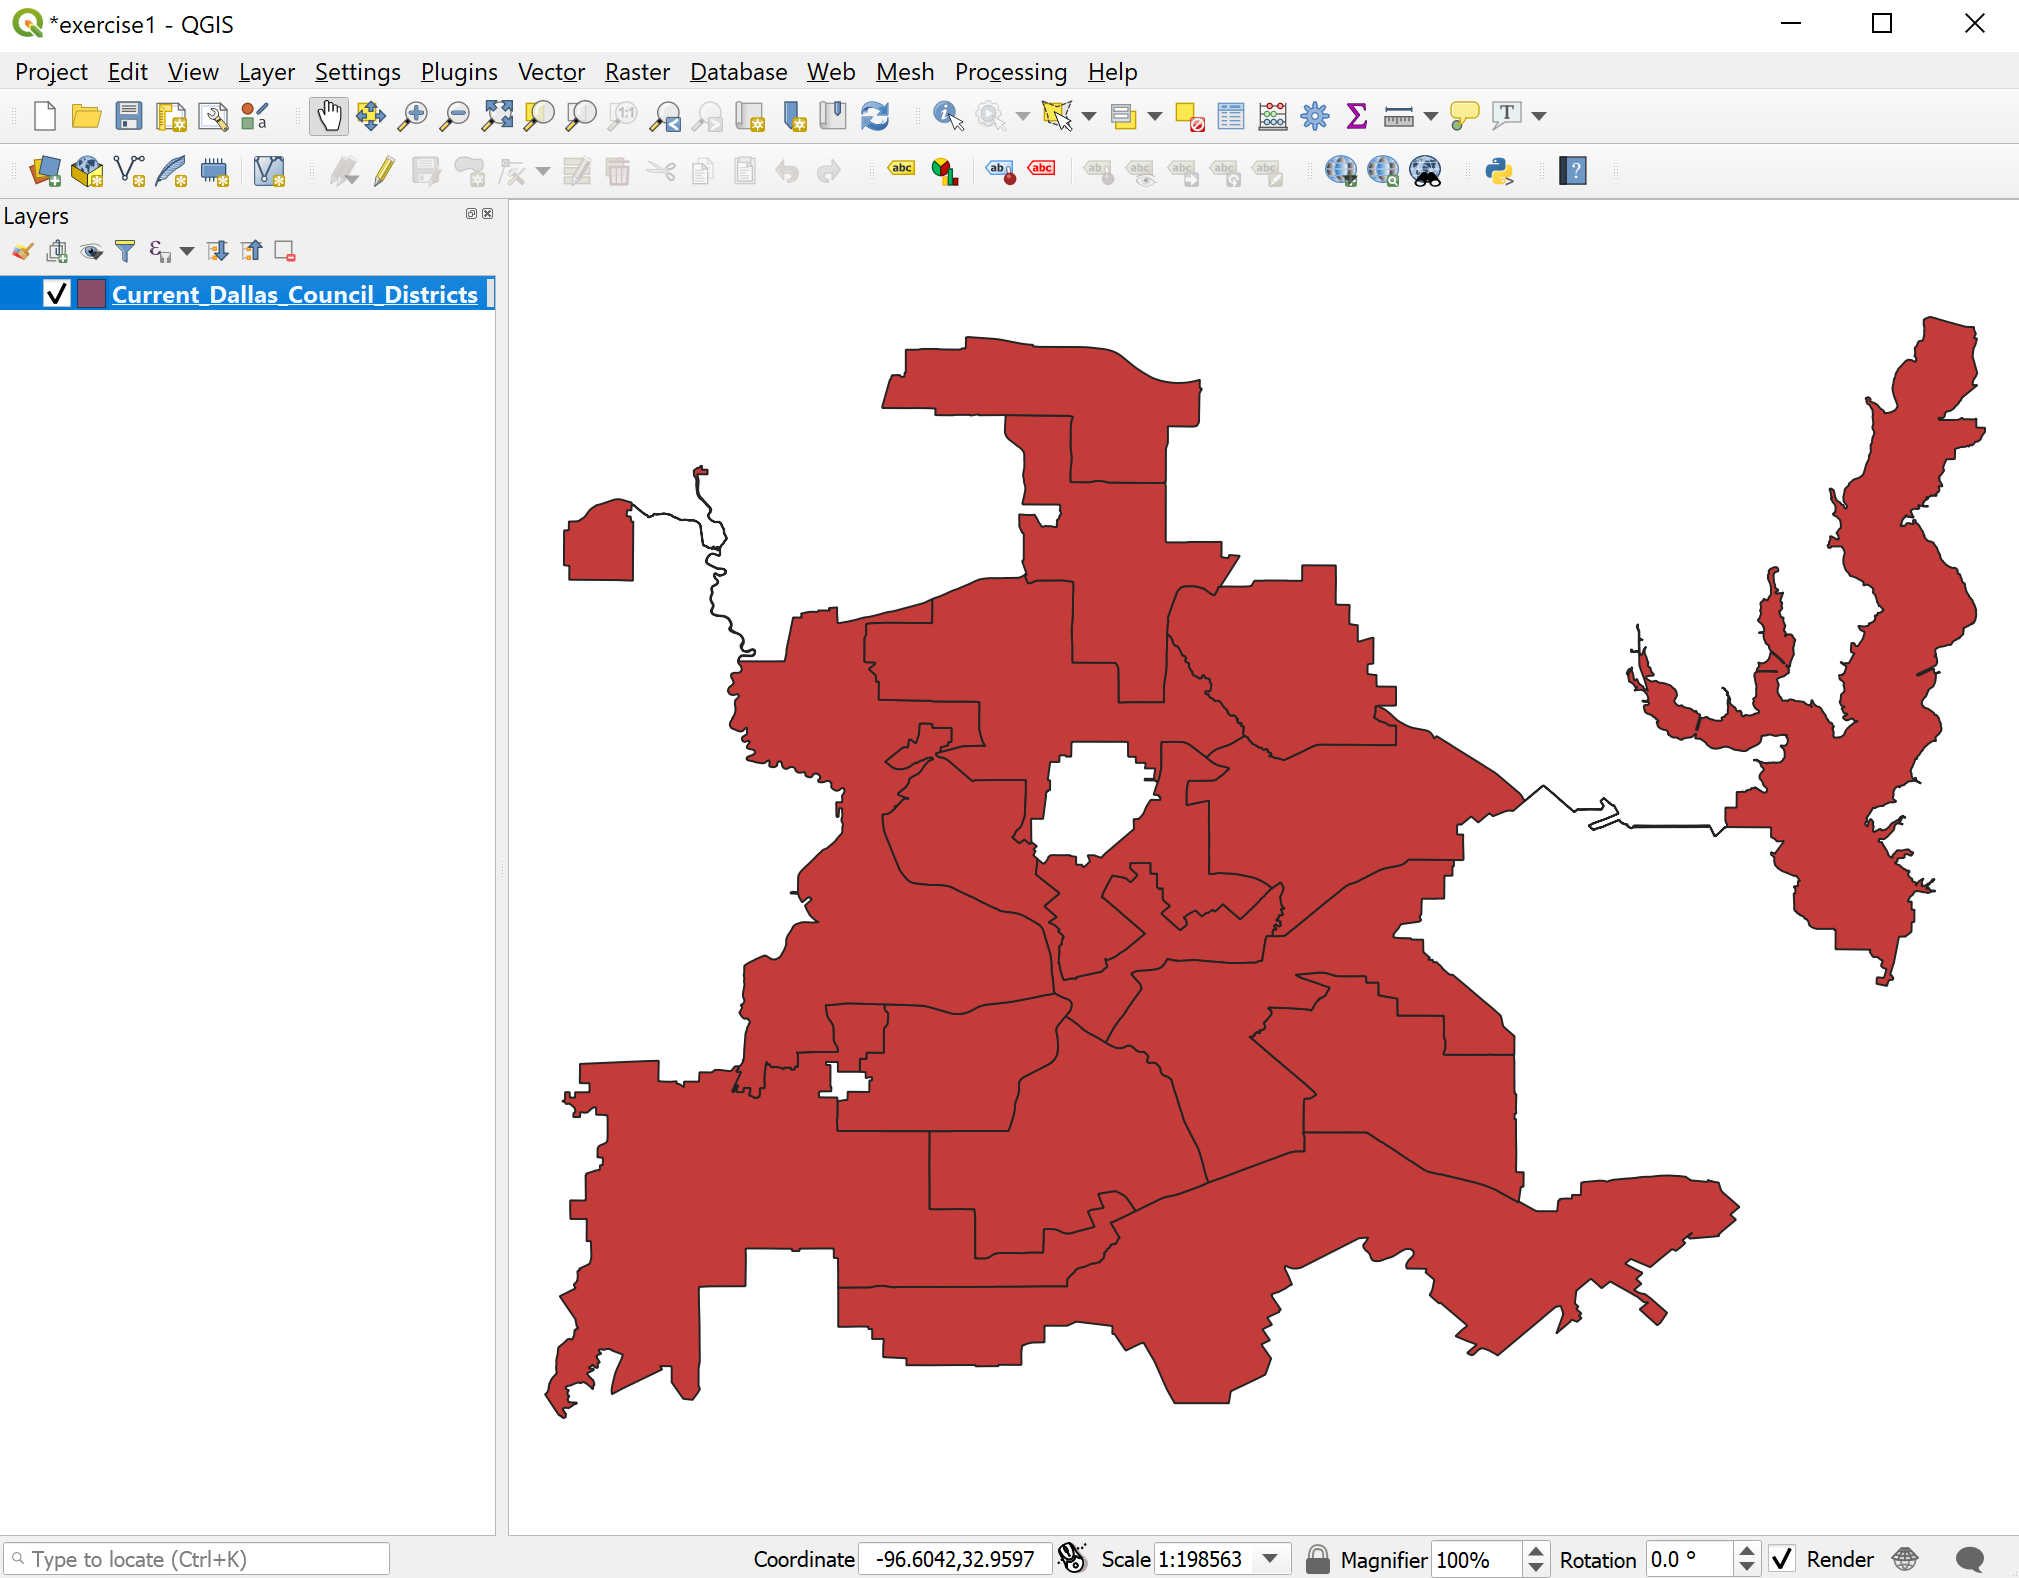
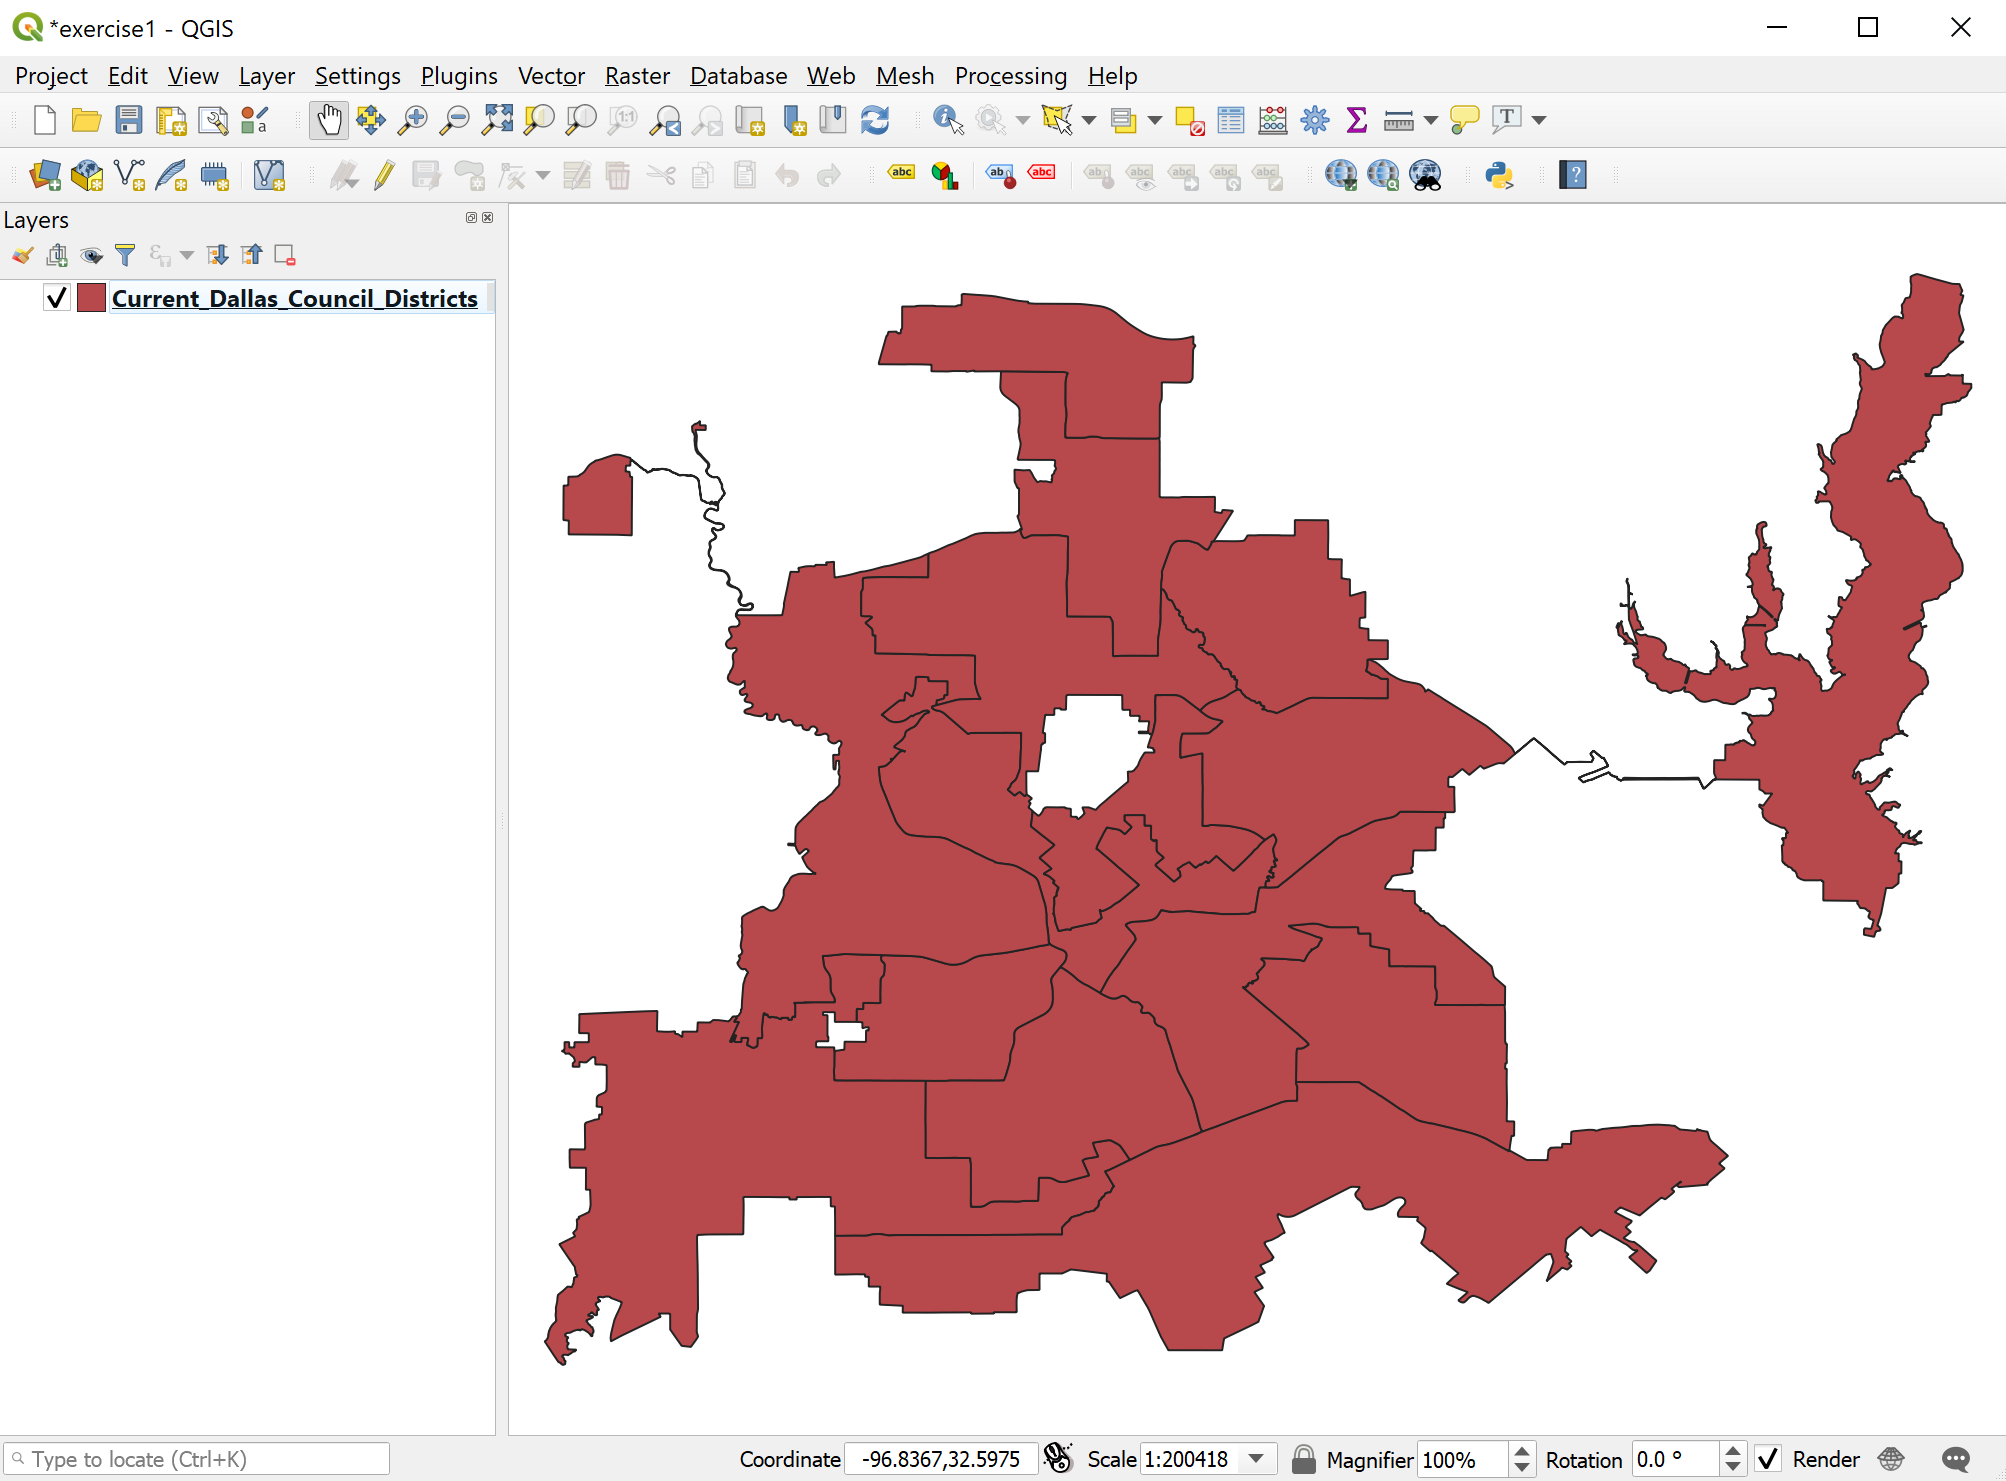
updating images

diff --git a/index.html b/index.html
@@ -38,6 +38,23 @@ class: center,middle
 <p class="license-text">Overview of GIS for Non-Profits by <a xmlns:cc="http://creativecommons.org/ns#" href="http://www.datapolitan.com" property="cc:attributionName" rel="cc:attributionURL">Richard Dunks</a> is licensed under a <a rel="license" href="http://creativecommons.org/licenses/by-sa/4.0/">Creative Commons Attribution-ShareAlike 4.0 International License</a></p>
 
 <a rel="license" href="http://creativecommons.org/licenses/by-sa/4.0/"><img style="border-width:0;width:8%" src="https://i.creativecommons.org/l/by-sa/4.0/80x15.png" /></a>
+
+---
+
+# Assumptions
+--
+
++ You want to know how to analyze and display spatial data
+--
+
++ You have little experience with mapping and spatial analysis
+--
+
++ You aren't familiar with QGIS
+--
+
++ You are well-meaning and motivated to learn
+
 ---
 
 # Goals for Today
@@ -50,7 +67,6 @@ class: center,middle
 --
 
 + Have fun making maps
-
 
 ---
 
@@ -74,27 +90,11 @@ exclude:true
 
 ---
 
-# Assumptions
---
-
-+ You want to know how to analyze and display spatial data
---
-
-+ You have little experience with mapping and spatial analysis
---
-
-+ You aren't familiar with QGIS
---
-
-+ You are well-meaning and motivated to learn
-
----
-
 class:center,middle
 # Let's Make a Map
-<!-- 
-![img-center-100](images/excited.gif)
- -->
+
+![img-center-70](images/qgis-cd-styled.PNG)
+
 
 ## [Download this Data](data/Current_Dallas_Council_Districts.zip) and Unzip the File
 
@@ -116,22 +116,22 @@ class:center,middle
 ---
 
 # QGIS Getting Started
-![img-center-80](images/qgis-data-source-manager-2.png)
+![img-center-80](images/qgis-data-source-manager-2.PNG)
 
 ---
 
 # QGIS Getting Started
-![img-center-100](images/qgis-data-source-manager-3.png)
+![img-center-100](images/qgis-data-source-manager-3.PNG)
 
 ---
 
 # QGIS Getting Started
-![img-center-100](images/qgis-cd-1.PNG)
+![img-center-90](images/qgis-cd-1.PNG)
 
 ---
 
 # Attribute Table
-![img-center-100](images/qgis-cd-2.PNG)
+![img-center-90](images/qgis-cd-2.PNG)
 ---
 
 # Attribute Table
@@ -155,55 +155,93 @@ class:center,middle
 # Styling Features
 --
 
-+ Click the button on the top left of the Layers panel
---
++ Right click the layer and select "Properties"
 
-+ In the Layer Styling panel, select "Categorized"
---
-        
-![img-left-40](images/qgis-layer-styling-panel.png)
-![img-right-30](images/qgis-boros-4.png)
+![img-center-90](images/qgis-cd-4.PNG)
 
 ---
 
 # Styling Features
-+ Select the column that has the data you want to style
-    
-![img-center-90](images/qgis-boros-5.png)
++ In the Layer Properties window, click the "Symbology" tab
+--
+
++ Click the "Single Symbol" and select "Categorized" from the drop-down menu
+--
+
+
+![img-center-85](images/qgis-cd-5.PNG)
+---
+
+# Styling Features
++ In the "Value" field, select the column that has the data you want to style
+--
+
++ In our case, this is the "council" column
+--
+
+
+![img-center-100](images/qgis-cd-6.PNG)
+---
+
+# Styling Features
++ Then click "Classify" (bottom left)
+--
+
+
+![img-center-85](images/qgis-cd-7.PNG)
+--
+
++ This should give each unique value in the column its own color
+
+---
+
+# Styling Features
++ Click "Ok" (or "Apply" to preview)
+
+![img-center-80](images/qgis-cd-8.PNG)
 
 ---
 
 # Add labels to data
-+ In the Layer Styling panel select the Labels tab, "Single labels"
++ In the Layer Properties window click the Labels tab
++ Select "Single labels"
 
-![img-center-80](images/labeling1.png)
-
----
-
-# Add labels to data
-+ Select the column that has the data you want to use for labels
-
-![img-center-80](images/labeling2.png)
+![img-center-95](images/qgis-cd-9.PNG)
 
 ---
 
 # Add labels to data
-![img-center-100](images/qgis-boros-8.png)
+--
+
++ Select the column that has the data you want to use for labels ("council")
+--
+
++ Style the text however you want
+--
+
+
+![img-center-80](images/qgis-cd-10.PNG)
 
 ---
 
-# Styling Labels
-
-![img-left-40](images/qgis-boros-6.png)
-![img-right-40](images/qgis-boros-7.png)
+# Add labels to data
+![img-center-90](images/qgis-cd-11.PNG)
 
 ---
 
 # Your turn
+--
+
 + Style the polygons however you'd like
+--
+
 + Change the outline color or add a pattern
+--
+
 + Style the labels
-+ Change the font, the font size, or other attributes
+--
+
++ Change the font, the font size, or other attributes (location)
 
 ---
 
@@ -295,7 +333,14 @@ class:center,middle
 ---
 
 class: center, middle
-# Why Do We Create Maps?
+# What is our Map missing?
+
+![img-center-95](images/qgis-cd-styled.PNG)
+
+---
+
+# Adding Basemaps
+
 
 ---
 
@@ -402,6 +447,11 @@ exclude:true
 ---
 
 class:center,middle
+# Wrap-up
+
+---
+
+class:center,middle
 # Proprietary vs Open-Source
 
 ---
@@ -452,11 +502,13 @@ class:center,middle
 
 ---
 
+exclude:true
 class:center,middle
 # Examples of Open Source Mapping Software
 
 ---
 
+exclude:true
 # [QGIS](http://www.qgis.org/)
 
 ![img-center-80](images/qgis.png)
@@ -476,10 +528,8 @@ exclude:true
 
 exclude:true
 # Disclaimer
---
 
 ## I'm a [CARTO Partner](https://carto.com/partners/)
---
 
 ## But this isn't a sales session, merely an opportunity to share the technology with Columbia students
 
@@ -509,6 +559,12 @@ exclude:true
 
 ---
 
+# Data Sources
++ [Dallas Open Data Portal](https://dallasopendata.com)
++ [DISD GIS Data](https://dallasisd.org/Page/29132)
+
+---
+
 # What We Talked About
 + Loading spatial data (shapefiles)
 + Styling spatial data (color, outline, labels, etc.)
@@ -517,6 +573,10 @@ exclude:true
 
 # What We Didn't Talk About
 + Projections
++ Geocoding
++ Creating heatmaps, hexagonal bins, choropleths, or other cool spatial visualizations
++ Advanced labeling
++ Connecting to databases
 
 ---
 
